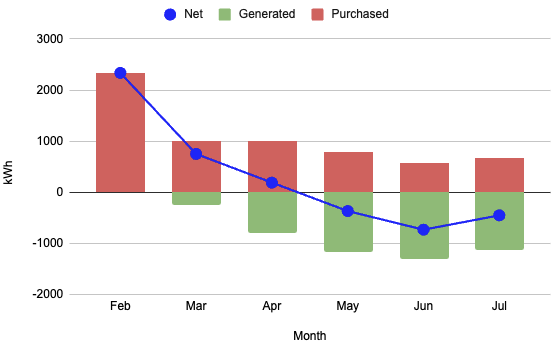
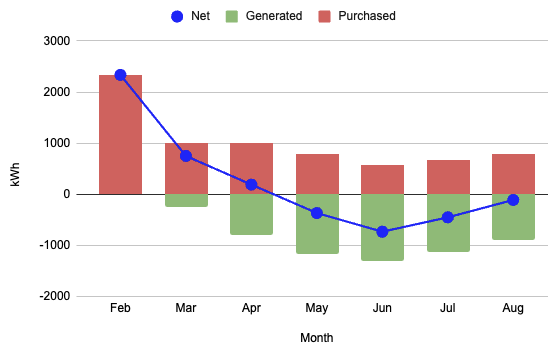
Solar update

diff --git a/content/blog/solar/solar.md b/content/blog/solar/solar.md
@@ -1,7 +1,7 @@
 ---
 title: Solar panels
 description: On my house
-date: 2026-07-16
+date: 2026-08-07
 image: net-metering.png
 tags:
 ---
@@ -23,3 +23,4 @@ Solar system designed, installed by: [New Energy, LLC](newenergyne.com).
 They also replaced my roof because they also do roofing and it turned out I needed a new roof. 🤑
 
 <img src="./net-metering.png" alt="Graph of purchased, generated, and net kWh per month">
+
